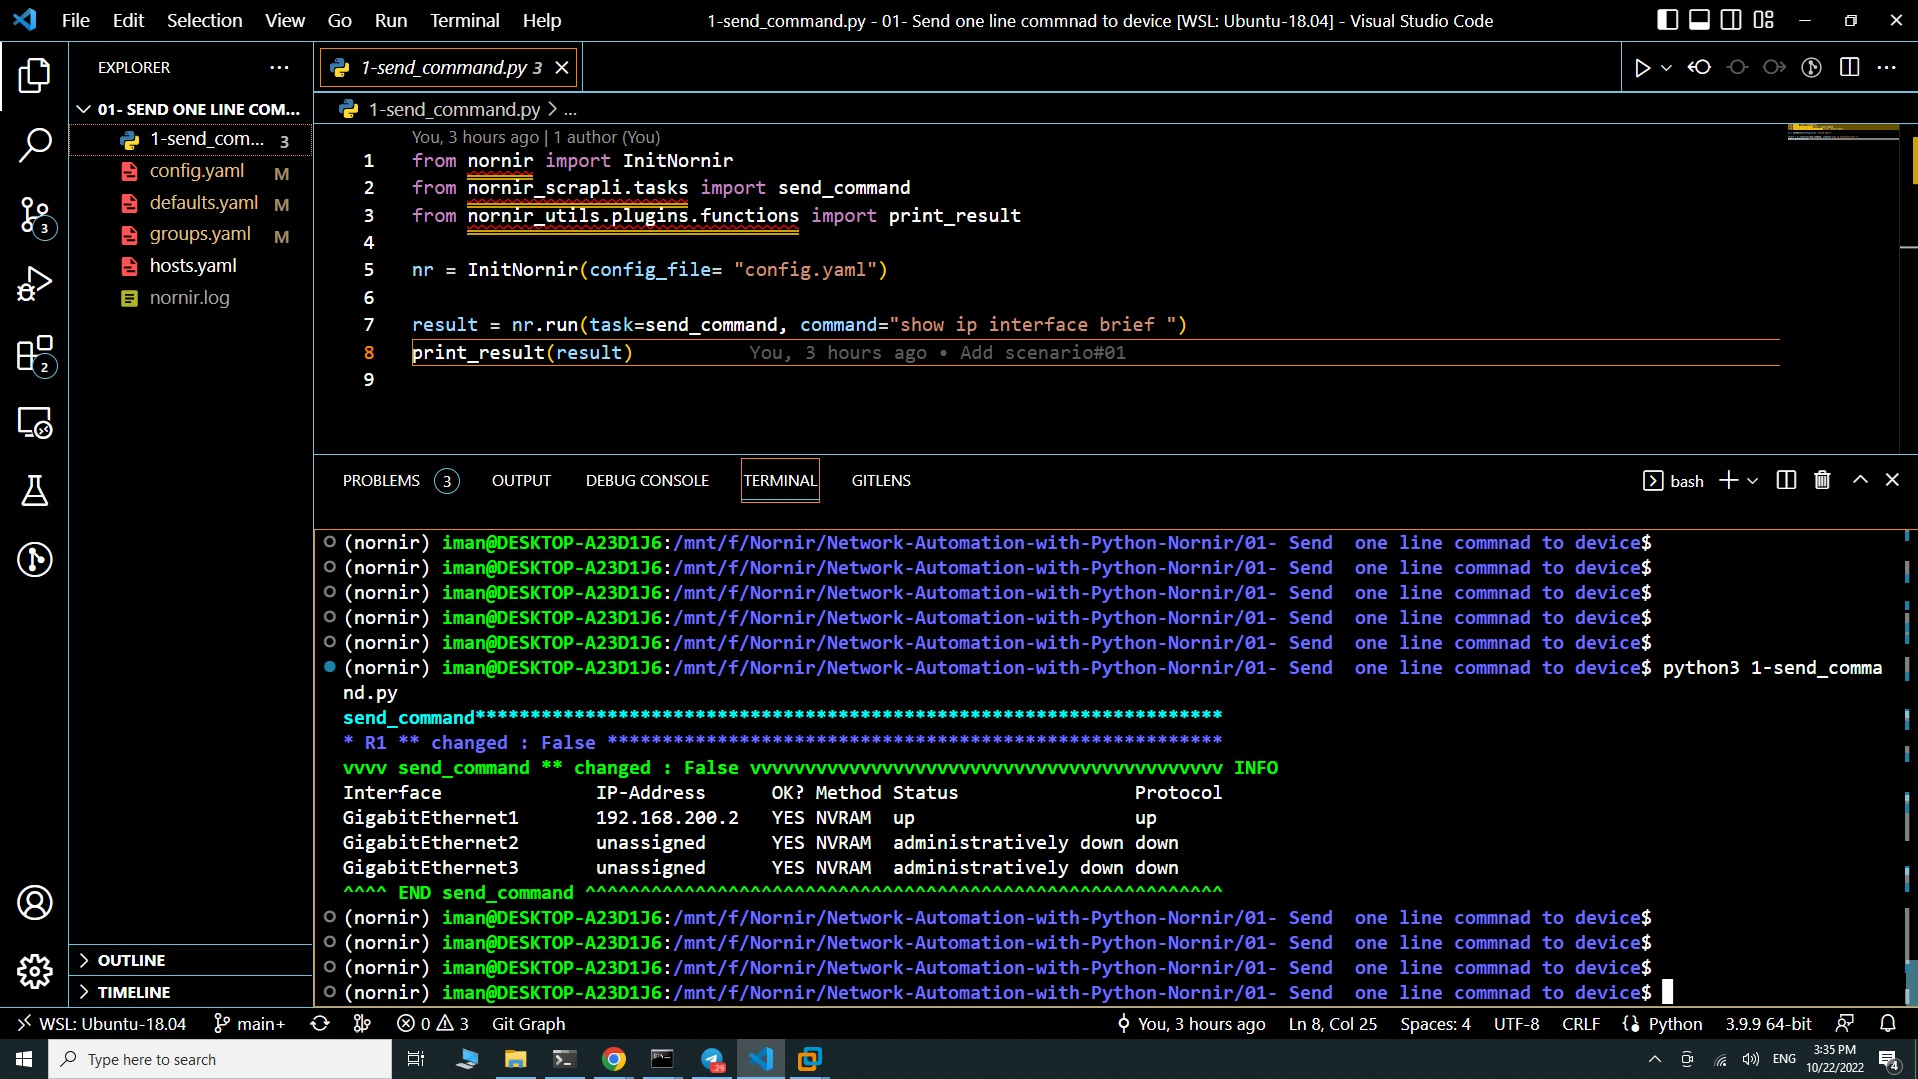
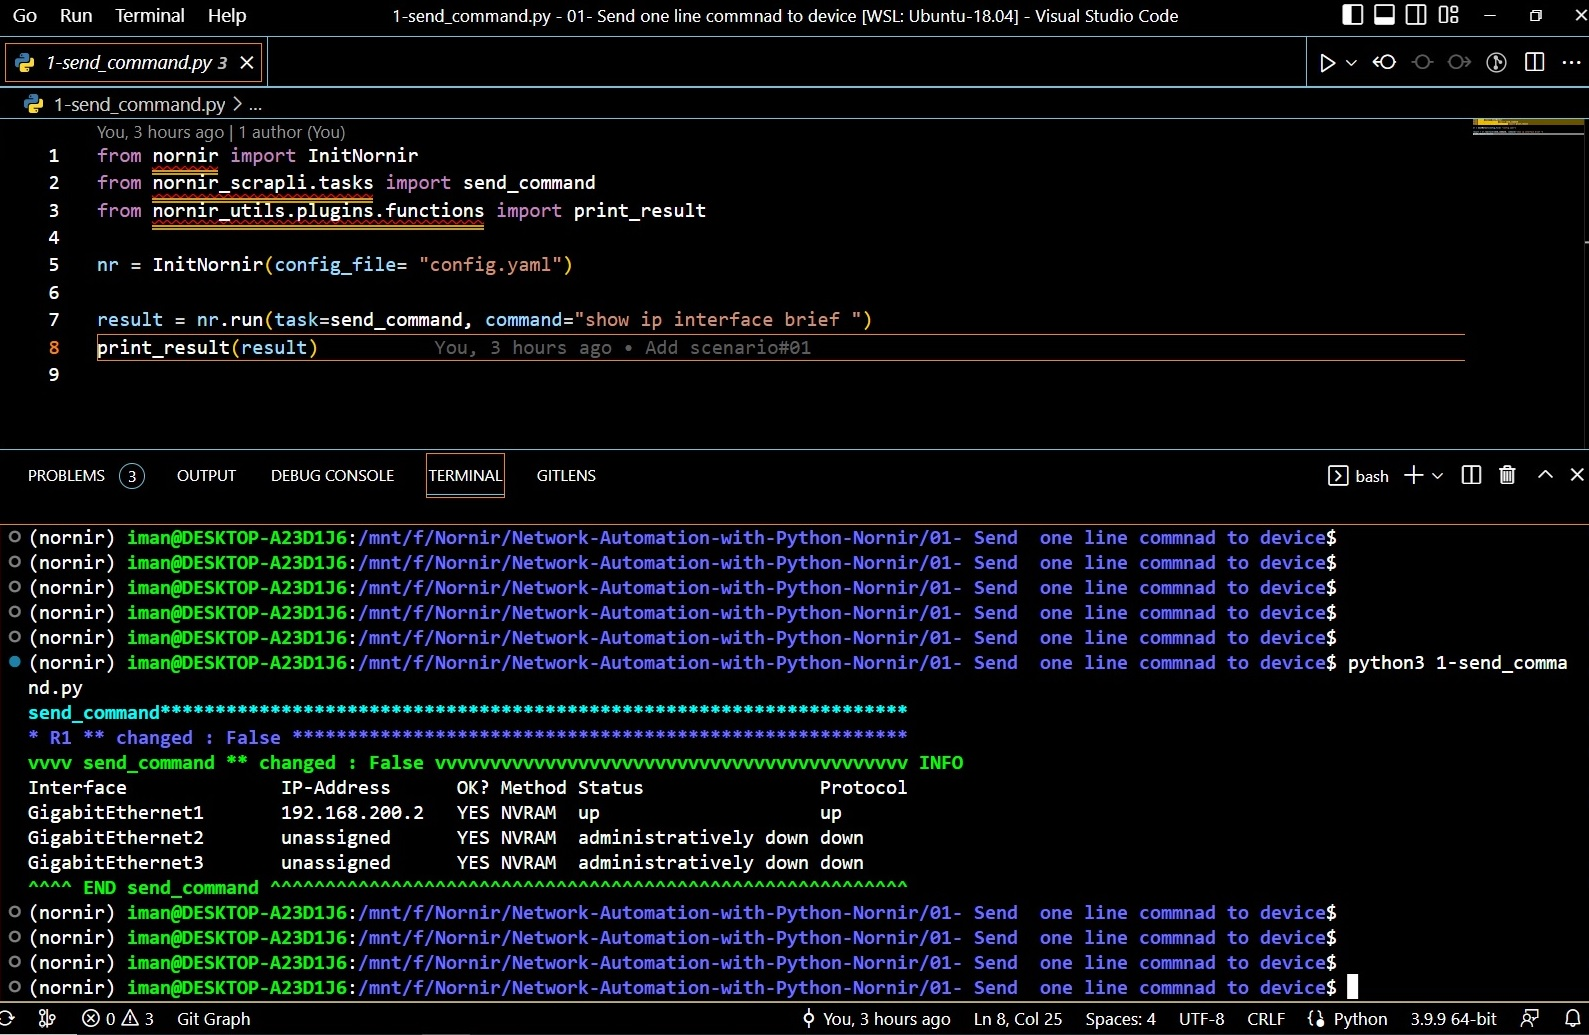
Update README and output image

diff --git a/01- Send  one line commnad to device/README.md b/01- Send  one line commnad to device/README.md
@@ -1,1 +1,1 @@
-![output](https://user-images.githubusercontent.com/94950365/197338617-c173c181-3f32-4929-a417-a3b41895db47.jpg)
+![output](https://user-images.githubusercontent.com/94950365/197473067-2af8e0b4-a7a5-4657-b5a5-13b5ff1b7036.jpg)
